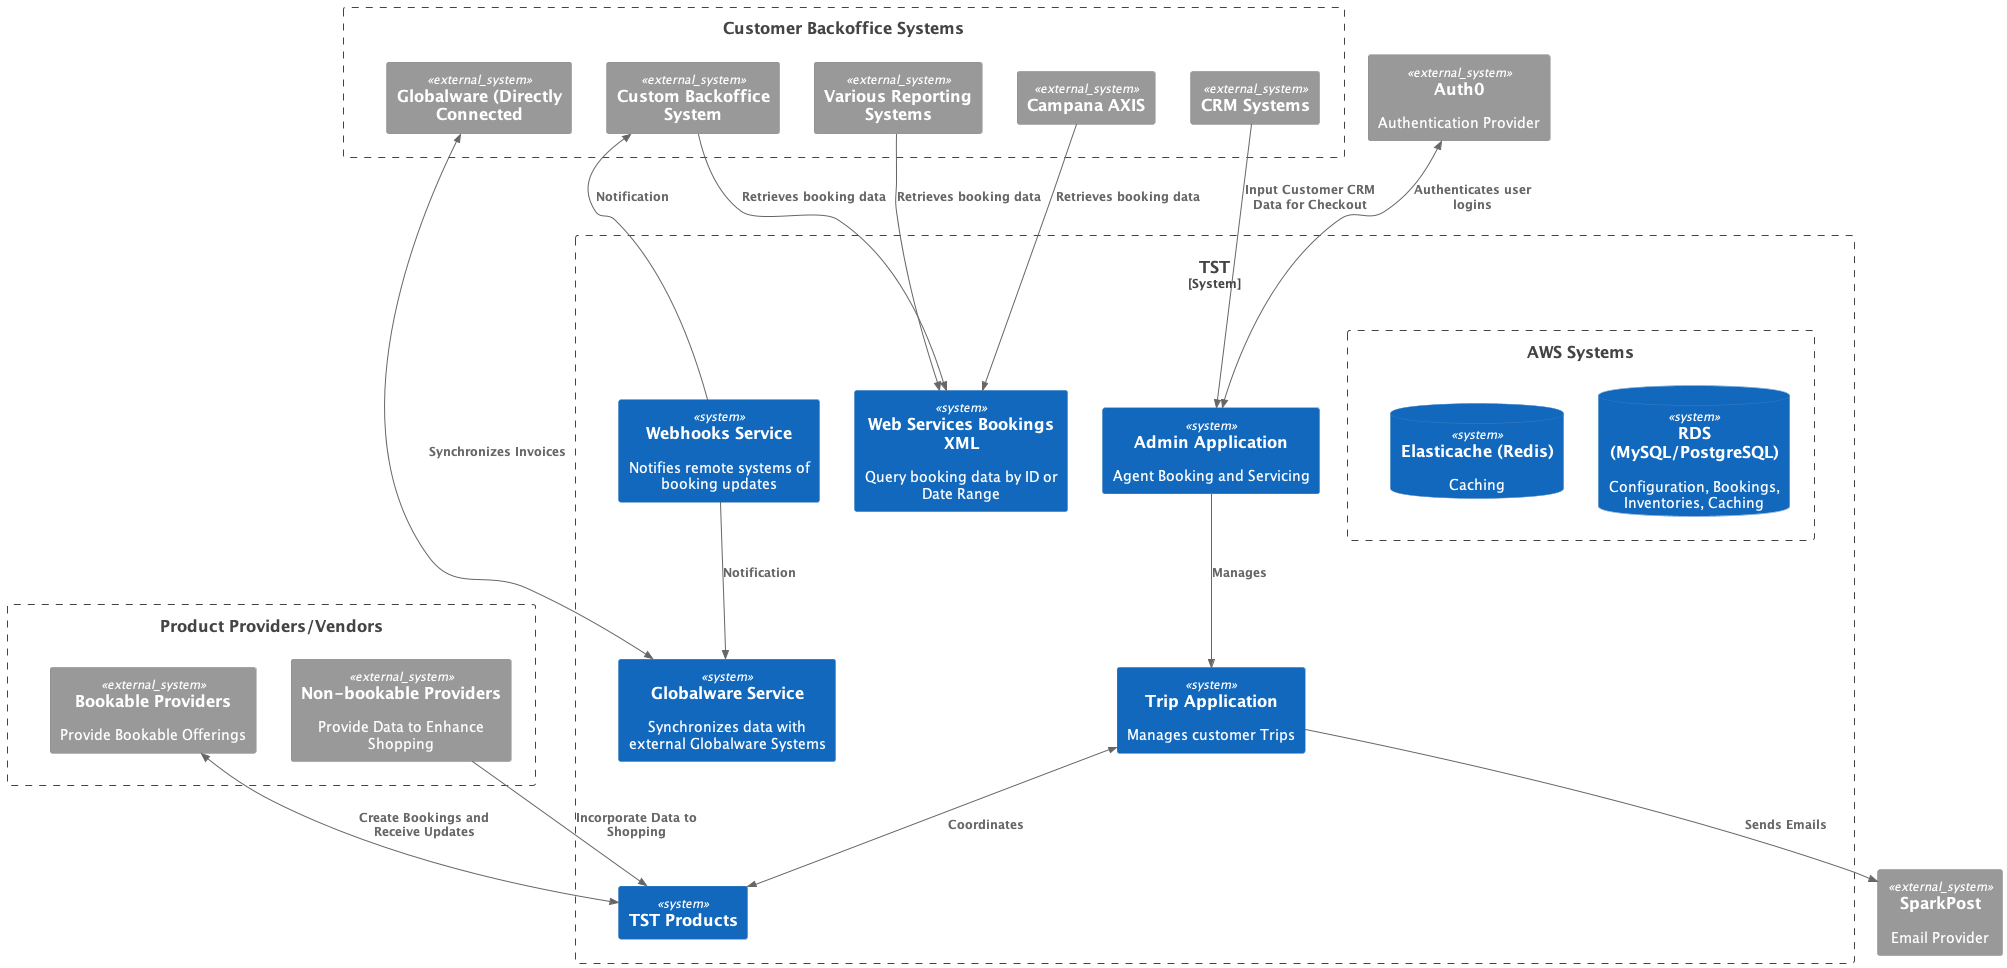
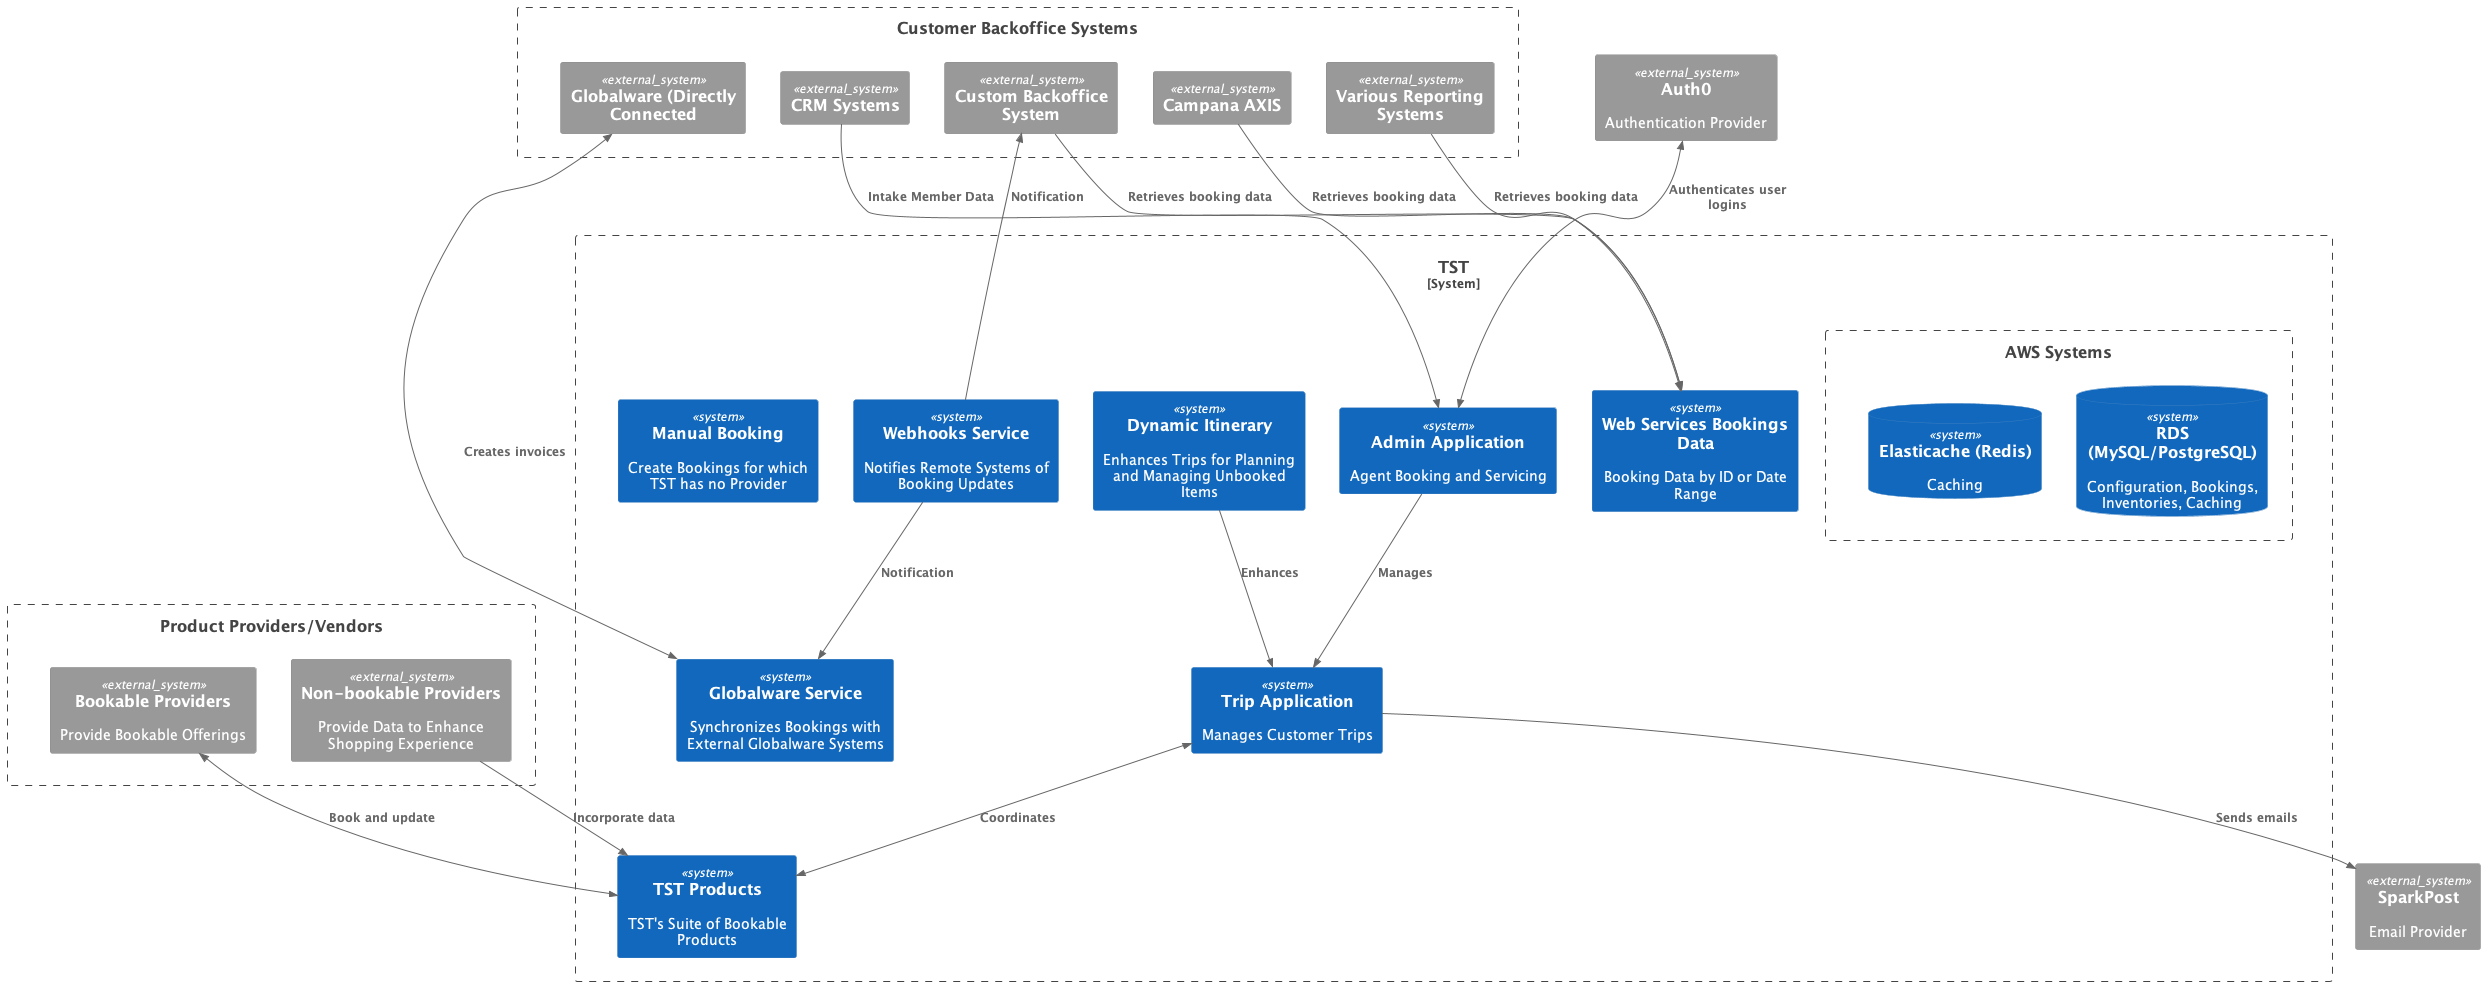
Architecture updates and testing github action build

diff --git a/Writerside/topics/TST-Architecture.md b/Writerside/topics/TST-Architecture.md
@@ -2,37 +2,40 @@
 
 ```mermaid
 C4Context
-      title TST Architectural Layout
+      title TST Architectural Layout)
+    
     System_Ext(Auth0, "Auth0", "Authentication Provider")
     System_Ext(SparkPost, "SparkPost", "Email Provider")
-
+    
     Boundary(CustomerBackoffice, "Customer Backoffice Systems") {
-        System_Ext(Campana, "Campana AXIS")
-        System_Ext(Reporting, "Various Reporting Systems")
-        System_Ext(CustomBackoffice, "Custom Backoffice System")
-        System_Ext(GlobalwareDirect, "Globalware (Directly Connected")
-        System_Ext(CRM, "CRM Systems")
+    System_Ext(Campana, "Campana AXIS")
+    System_Ext(Reporting, "Various Reporting Systems")
+    System_Ext(CustomBackoffice, "Custom Backoffice System")
+    System_Ext(GlobalwareDirect, "Globalware (Directly Connected")
+    System_Ext(CRM, "CRM Systems")
     }
-
+    
     System_Boundary(TST, "TST") {
-        System(WebServicesBookings, "Web Services Bookings Data", "Booking Data by ID or Date Range")
-        System(GlobalwareService, "Globalware Service", "Synchronizes Bookings with External Globalware Systems")
-        System(WebhookService, "Webhooks Service", "Notifies Remote Systems of Booking Updates")
-        System(Trip, "Trip Application", "Manages Customer Trips")
-        System(Admin, "Admin Application", "Agent Booking and Servicing")
-        System(TSTProducts, "TST Products")
-        Boundary(AWS, "AWS Systems", "") {
-            SystemDb(TSTMySQL, "RDS (MySQL/PostgreSQL)", "Configuration, Bookings, Inventories, Caching")
-            SystemDb(TSTRedis, "Elasticache (Redis)", "Caching")
+    System(WebServicesBookings, "Web Services Bookings Data", "Booking Data by ID or Date Range")
+    System(GlobalwareService, "Globalware Service", "Synchronizes Bookings with External Globalware Systems")
+    System(WebhookService, "Webhooks Service", "Notifies Remote Systems of Booking Updates")
+    System(Trip, "Trip Application", "Manages Customer Trips")
+    System(DynamicItinerary, "Dynamic Itinerary", "Enhances Trips for Planning and Managing Unbooked Items")
+    System(Admin, "Admin Application", "Agent Booking and Servicing")
+    System(TSTProducts, "TST Products", "TST's Suite of Bookable Products")
+    System(ManualBooking, "Manual Booking", "Create Bookings for which TST has no Provider")
+    Boundary(AWS, "AWS Systems", "") {
+    SystemDb(TSTMySQL, "RDS (MySQL/PostgreSQL)", "Configuration, Bookings, Inventories, Caching")
+    SystemDb(TSTRedis, "Elasticache (Redis)", "Caching")
+    }
         }
-    }
-
-
+    
+    
     Boundary(Providers, "Product Providers/Vendors", "") {
-        System_Ext(BookableProviders, "Bookable Providers", "Provide Bookable Offerings")
-        System_Ext(NonBookableProviders, "Non-bookable Providers", "Provide Data to Enhance Shopping Experience")
+    System_Ext(BookableProviders, "Bookable Providers", "Provide Bookable Offerings")
+    System_Ext(NonBookableProviders, "Non-bookable Providers", "Provide Data to Enhance Shopping Experience")
     }
-
+    
     BiRel(Auth0, Admin, "Authenticates user logins")
     Rel(CRM, Admin, "Intake Member Data")
     
@@ -41,9 +44,11 @@ C4Context
     Rel(CustomBackoffice, WebServicesBookings, "Retrieves booking data")
     Rel(Campana, WebServicesBookings, "Retrieves booking data")
     Rel(Reporting, WebServicesBookings, "Retrieves booking data")
-    BiRel(GlobalwareService, GlobalwareDirect, "Synchronizes invoices")
+    BiRel(GlobalwareService, GlobalwareDirect, "Creates invoices")
     
     BiRel(Trip, TSTProducts, "Coordinates")
+    BiRel(Trip, ManualBooking, "Coordinates")
+    Rel(DynamicItinerary, Trip, "Enhances")
     Rel(Admin, Trip, "Manages")
     Rel(Trip, SparkPost, "Sends emails")
     

diff --git a/Writerside/topics/TST-Architecture-2.md b/Writerside/topics/TST-Architecture-2.md
@@ -1,4 +1,4 @@
-# TST Architecture (PlantUML)
+# TST Architecture
 
 ```plantuml
 @startuml TST_Architecture
@@ -25,8 +25,10 @@ System_Boundary(TST, "TST") {
     System(GlobalwareService, "Globalware Service", "Synchronizes Bookings with External Globalware Systems")
     System(WebhookService, "Webhooks Service", "Notifies Remote Systems of Booking Updates")
     System(Trip, "Trip Application", "Manages Customer Trips")
+    System(DynamicItinerary, "Dynamic Itinerary", "Enhances Trips for Planning and Managing Unbooked Items")
     System(Admin, "Admin Application", "Agent Booking and Servicing")
-    System(TSTProducts, "TST Products")
+    System(TSTProducts, "TST Products", "TST's Suite of Bookable Products")
+    System(ManualBooking, "Manual Booking", "Create Bookings for which TST has no Provider")
     Boundary(AWS, "AWS Systems", "") {
         SystemDb(TSTMySQL, "RDS (MySQL/PostgreSQL)", "Configuration, Bookings, Inventories, Caching")
         SystemDb(TSTRedis, "Elasticache (Redis)", "Caching")
@@ -49,22 +51,16 @@ Rel(WebhookService, GlobalwareService, "Notification")
 Rel(CustomBackoffice, WebServicesBookings, "Retrieves booking data")
 Rel(Campana, WebServicesBookings, "Retrieves booking data")
 Rel(Reporting, WebServicesBookings, "Retrieves booking data")
-BiRel(GlobalwareService, GlobalwareDirect, "Synchronizes invoices")
+BiRel(GlobalwareService, GlobalwareDirect, "Creates invoices")
 
 BiRel(Trip, TSTProducts, "Coordinates")
+BiRel(Trip, ManualBooking, "Coordinates")
+Rel(DynamicItinerary, Trip, "Enhances")
 Rel(Admin, Trip, "Manages")
 Rel(Trip, SparkPost, "Sends emails")
 
 BiRel(TSTProducts, BookableProviders, "Book and update")
 Rel(NonBookableProviders, TSTProducts, "Incorporate data")
-
-Lay_U(TST, CustomerBackoffice)
-Lay_L(TST, CustomerBackoffice)
-Lay_L(TST, AWS)
-Lay_R(TST, Providers)
-' Lay_D(TST, Consumer)
-' Lay_U(Providers, Consumer)
-' Lay_R(TST, TravelAgent)
 
 @enduml
 ```

diff --git a/Writerside/topics/CRM-Integration.md b/Writerside/topics/CRM-Integration.md
@@ -1,0 +1,21 @@
+# CRM Integration
+
+```mermaid
+sequenceDiagram
+    box User
+    participant CRM
+    participant Agent Browser
+    end
+    box TST
+    participant Admin
+    participant Trip
+    end
+    CRM->>Admin: Delivers Customer Data (JSON)
+    Admin-->>Agent Browser: Saves CRM Key 
+    Admin->>Agent Browser: Redirects to Login
+    Agent Browser->>Admin: Login
+    Admin->>Trip: Proceed to Checkout
+    Trip->>Agent Browser: Checks for CRM Key
+    Trip-->>Admin: Requests CRM Payload
+    Admin->>Trip: Populates Traveler in Checkout
+```
